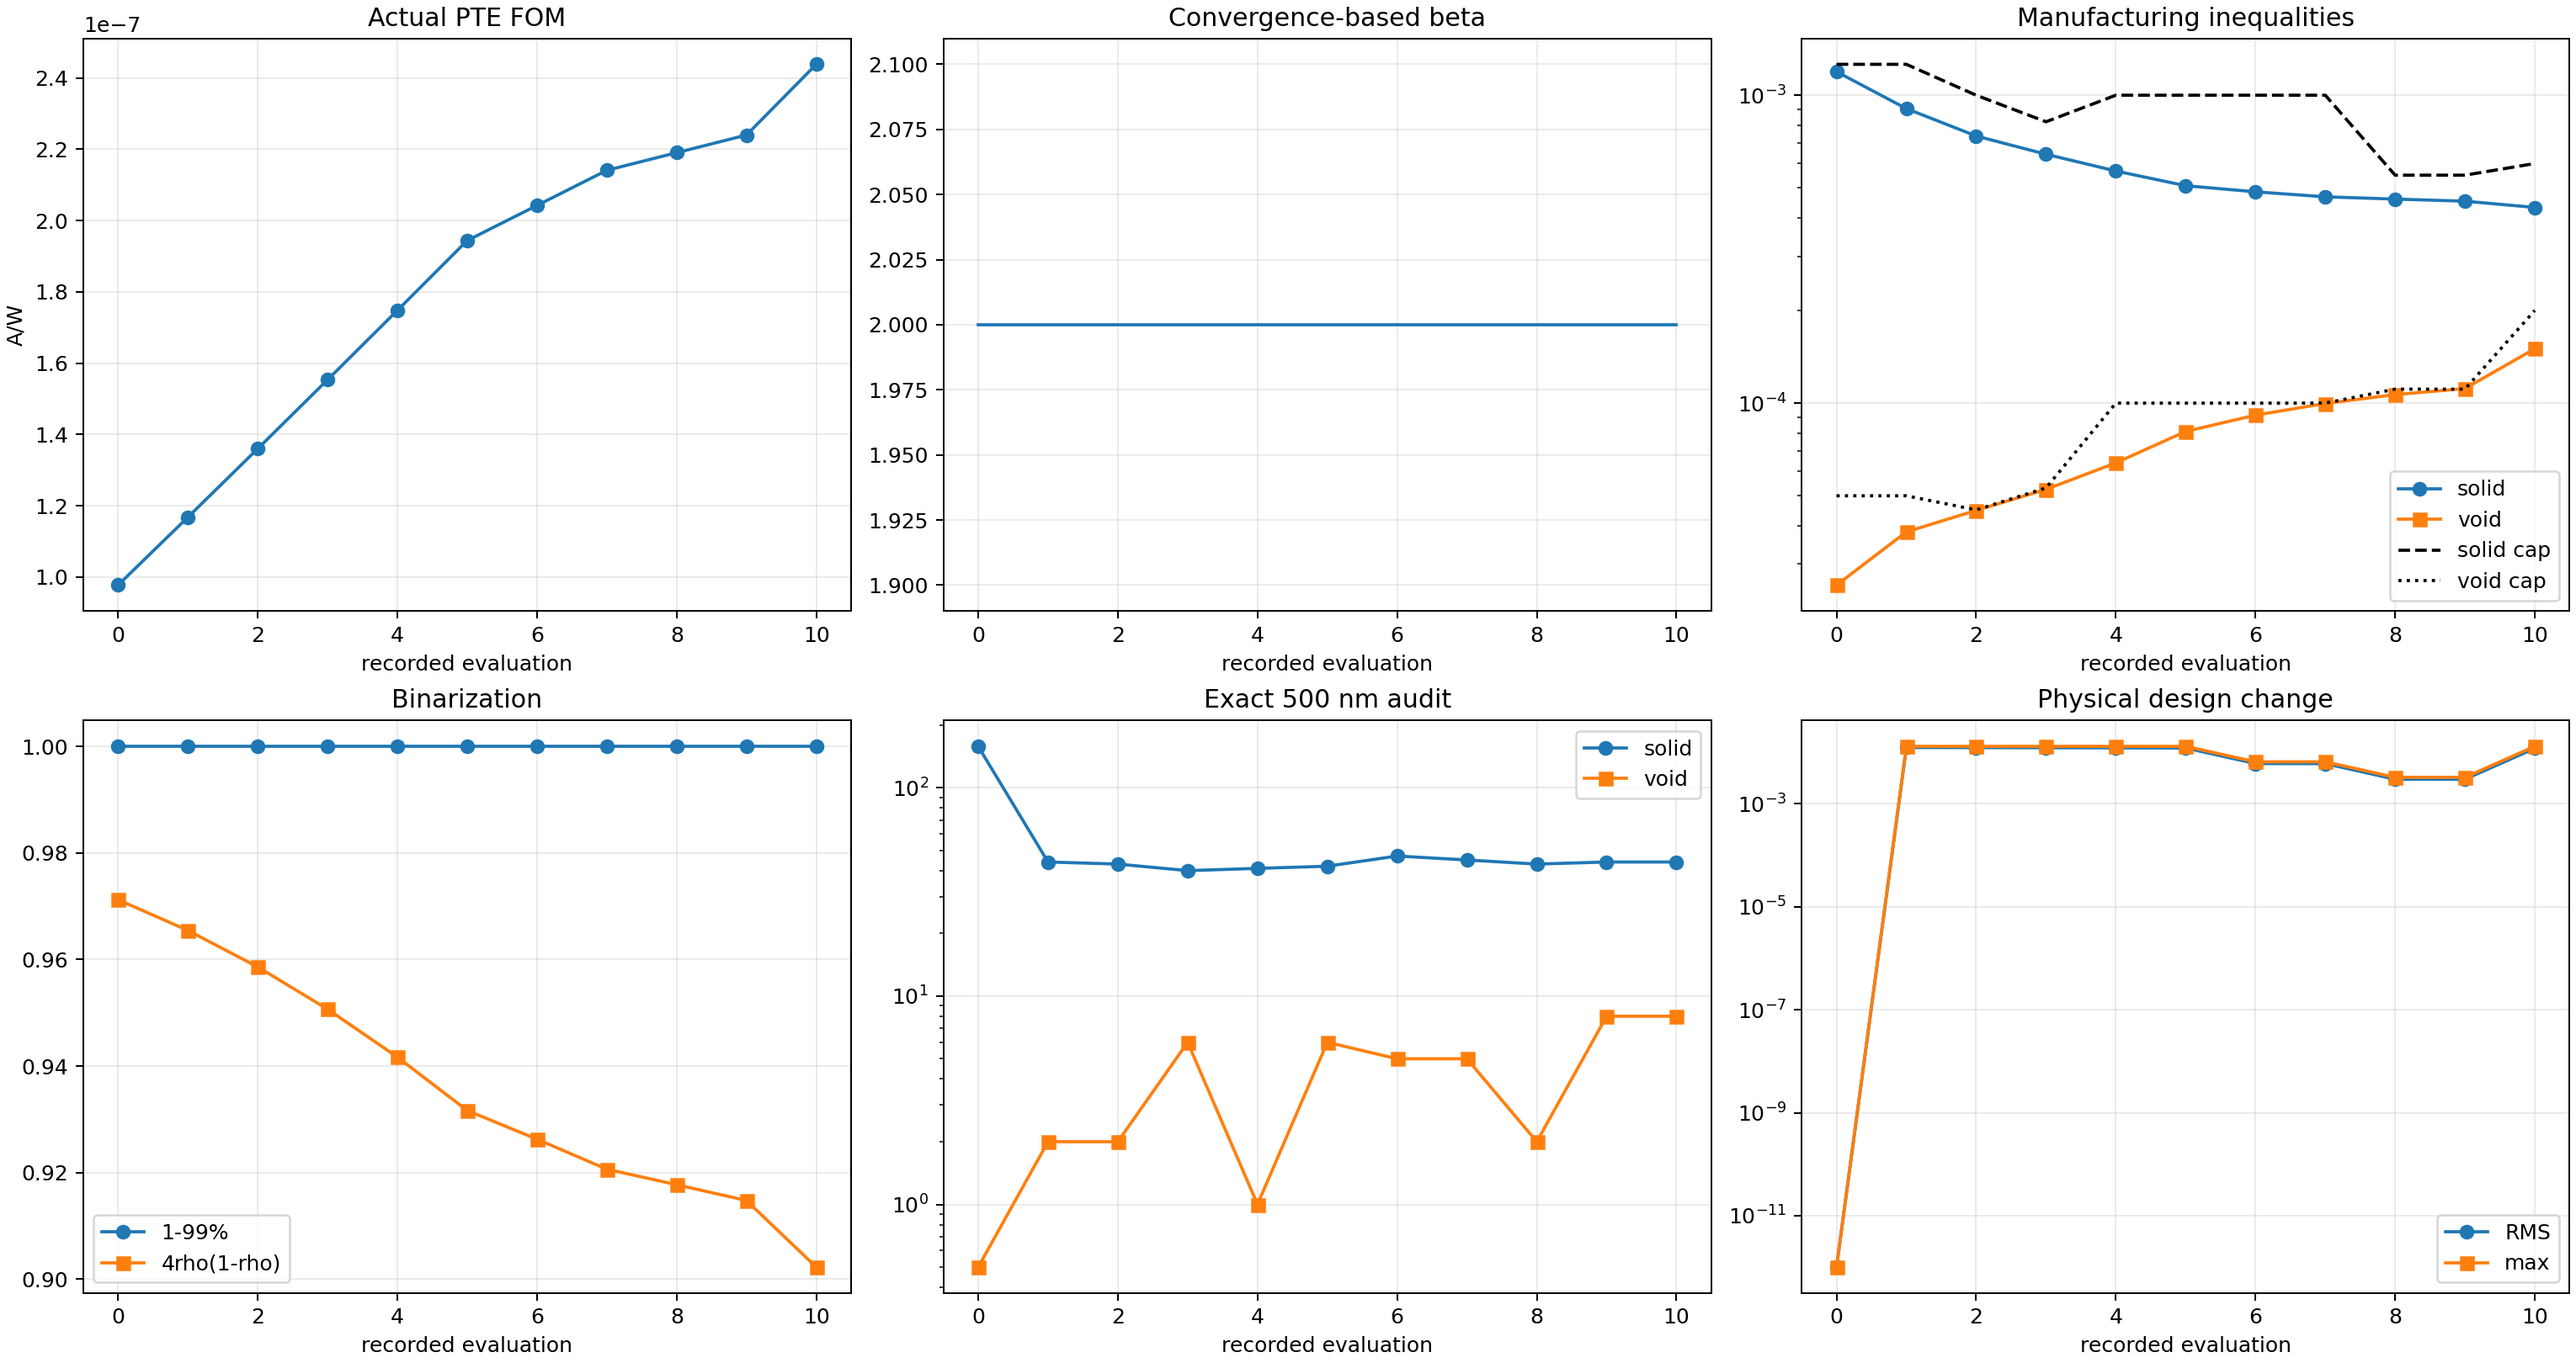
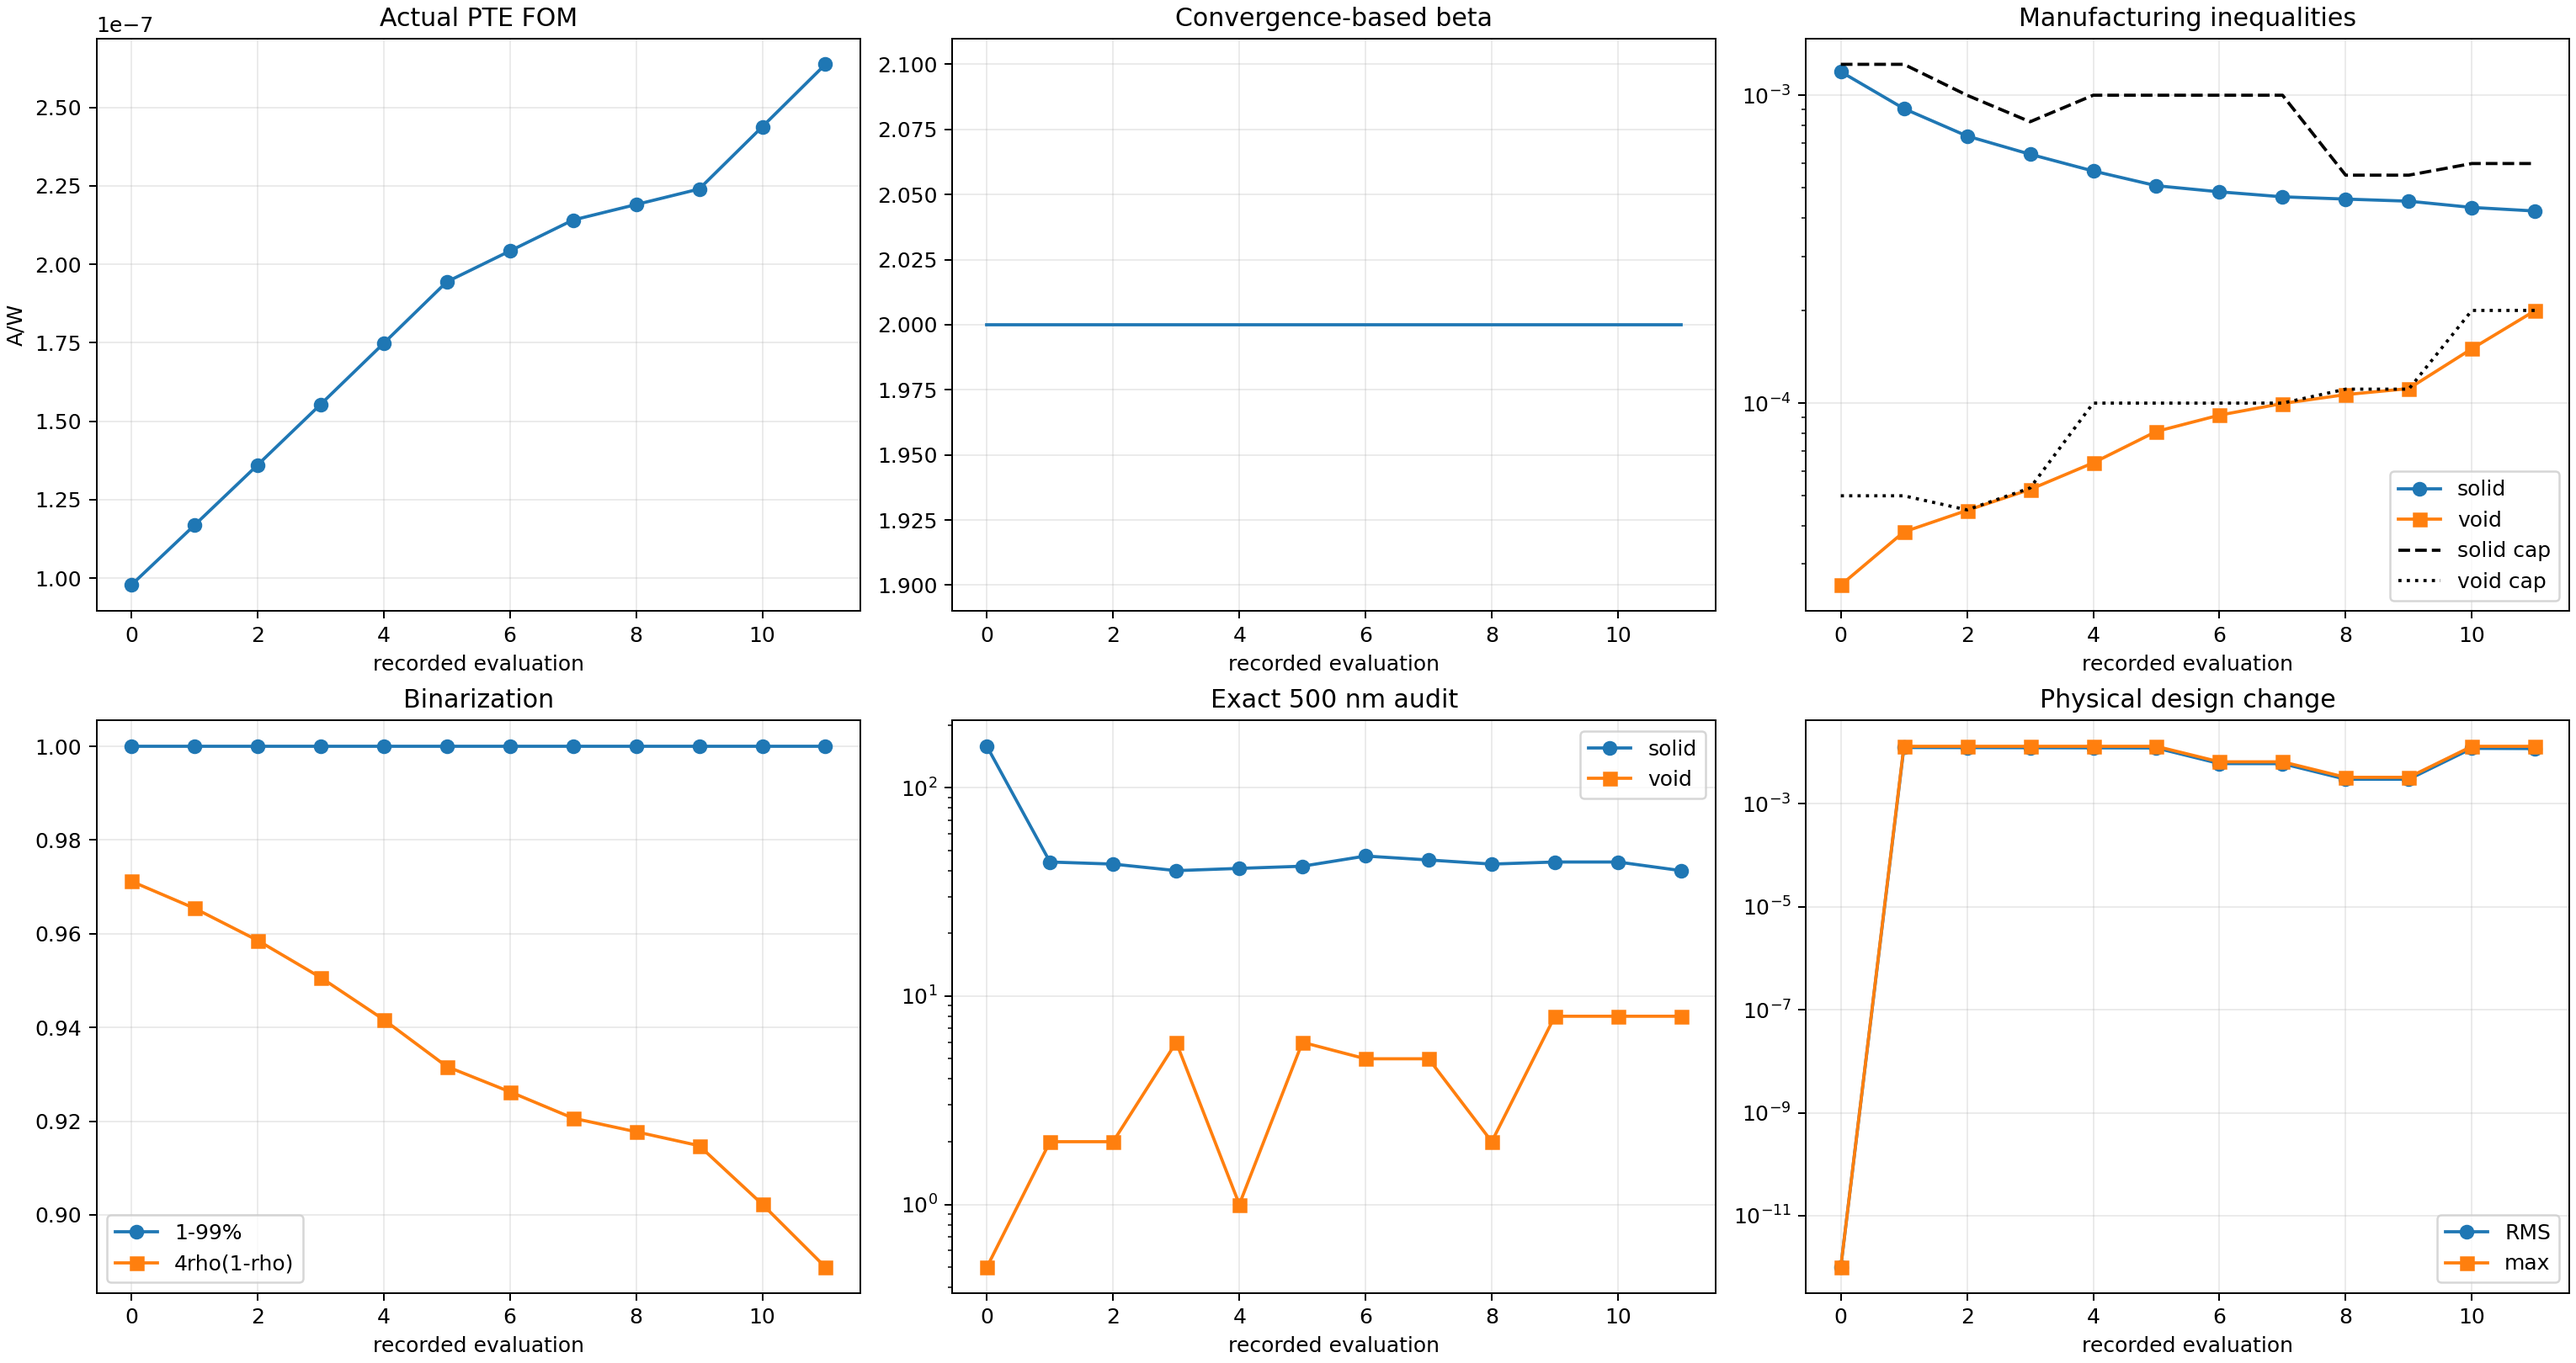
Record Run 005 run005_b002_s011_g011_accepted_mma

diff --git a/photothermal_pte/optimization_runs/run_005_lowbeta_topology_exploration_pilot/results/OPTIMIZATION_REPORT.md b/photothermal_pte/optimization_runs/run_005_lowbeta_topology_exploration_pilot/results/OPTIMIZATION_REPORT.md
@@ -2,12 +2,12 @@
 
 Status: `RUNNING_RUN005_FULL_BINARY_BETA_CONTINUATION`
 
-Current stage: beta=2, accepted stage iteration=10, global iteration=10.
+Current stage: beta=2, accepted stage iteration=11, global iteration=11.
 
 Constraint contract: `soft_disk_opening_500nm_from_iteration_zero_v5`.
 
-Actual FOM: `2.437992748625e-07 A/W`. Fixed-cap solid/void constraints: `4.320628e-04` / `1.501942e-04` with caps `6.000000e-04` / `2.000000e-04`.
+Actual FOM: `2.636994252267e-07 A/W`. Fixed-cap solid/void constraints: `4.206910e-04` / `1.996397e-04` with caps `6.000000e-04` / `2.000000e-04`.
 
-Exact 500 nm bad cells: solid `44`, void `8`. Stage convergence: `False` (recent FOM/density changes have not plateaued).
+Exact 500 nm bad cells: solid `40`, void `8`. Stage convergence: `False` (recent FOM/density changes have not plateaued).
 
 Beta advances only after the stage FOM/density plateau. The run is not complete until the projected-binary and exact 500 nm gates pass and a fresh thresholded-binary GPU/CUDA evaluation succeeds.
